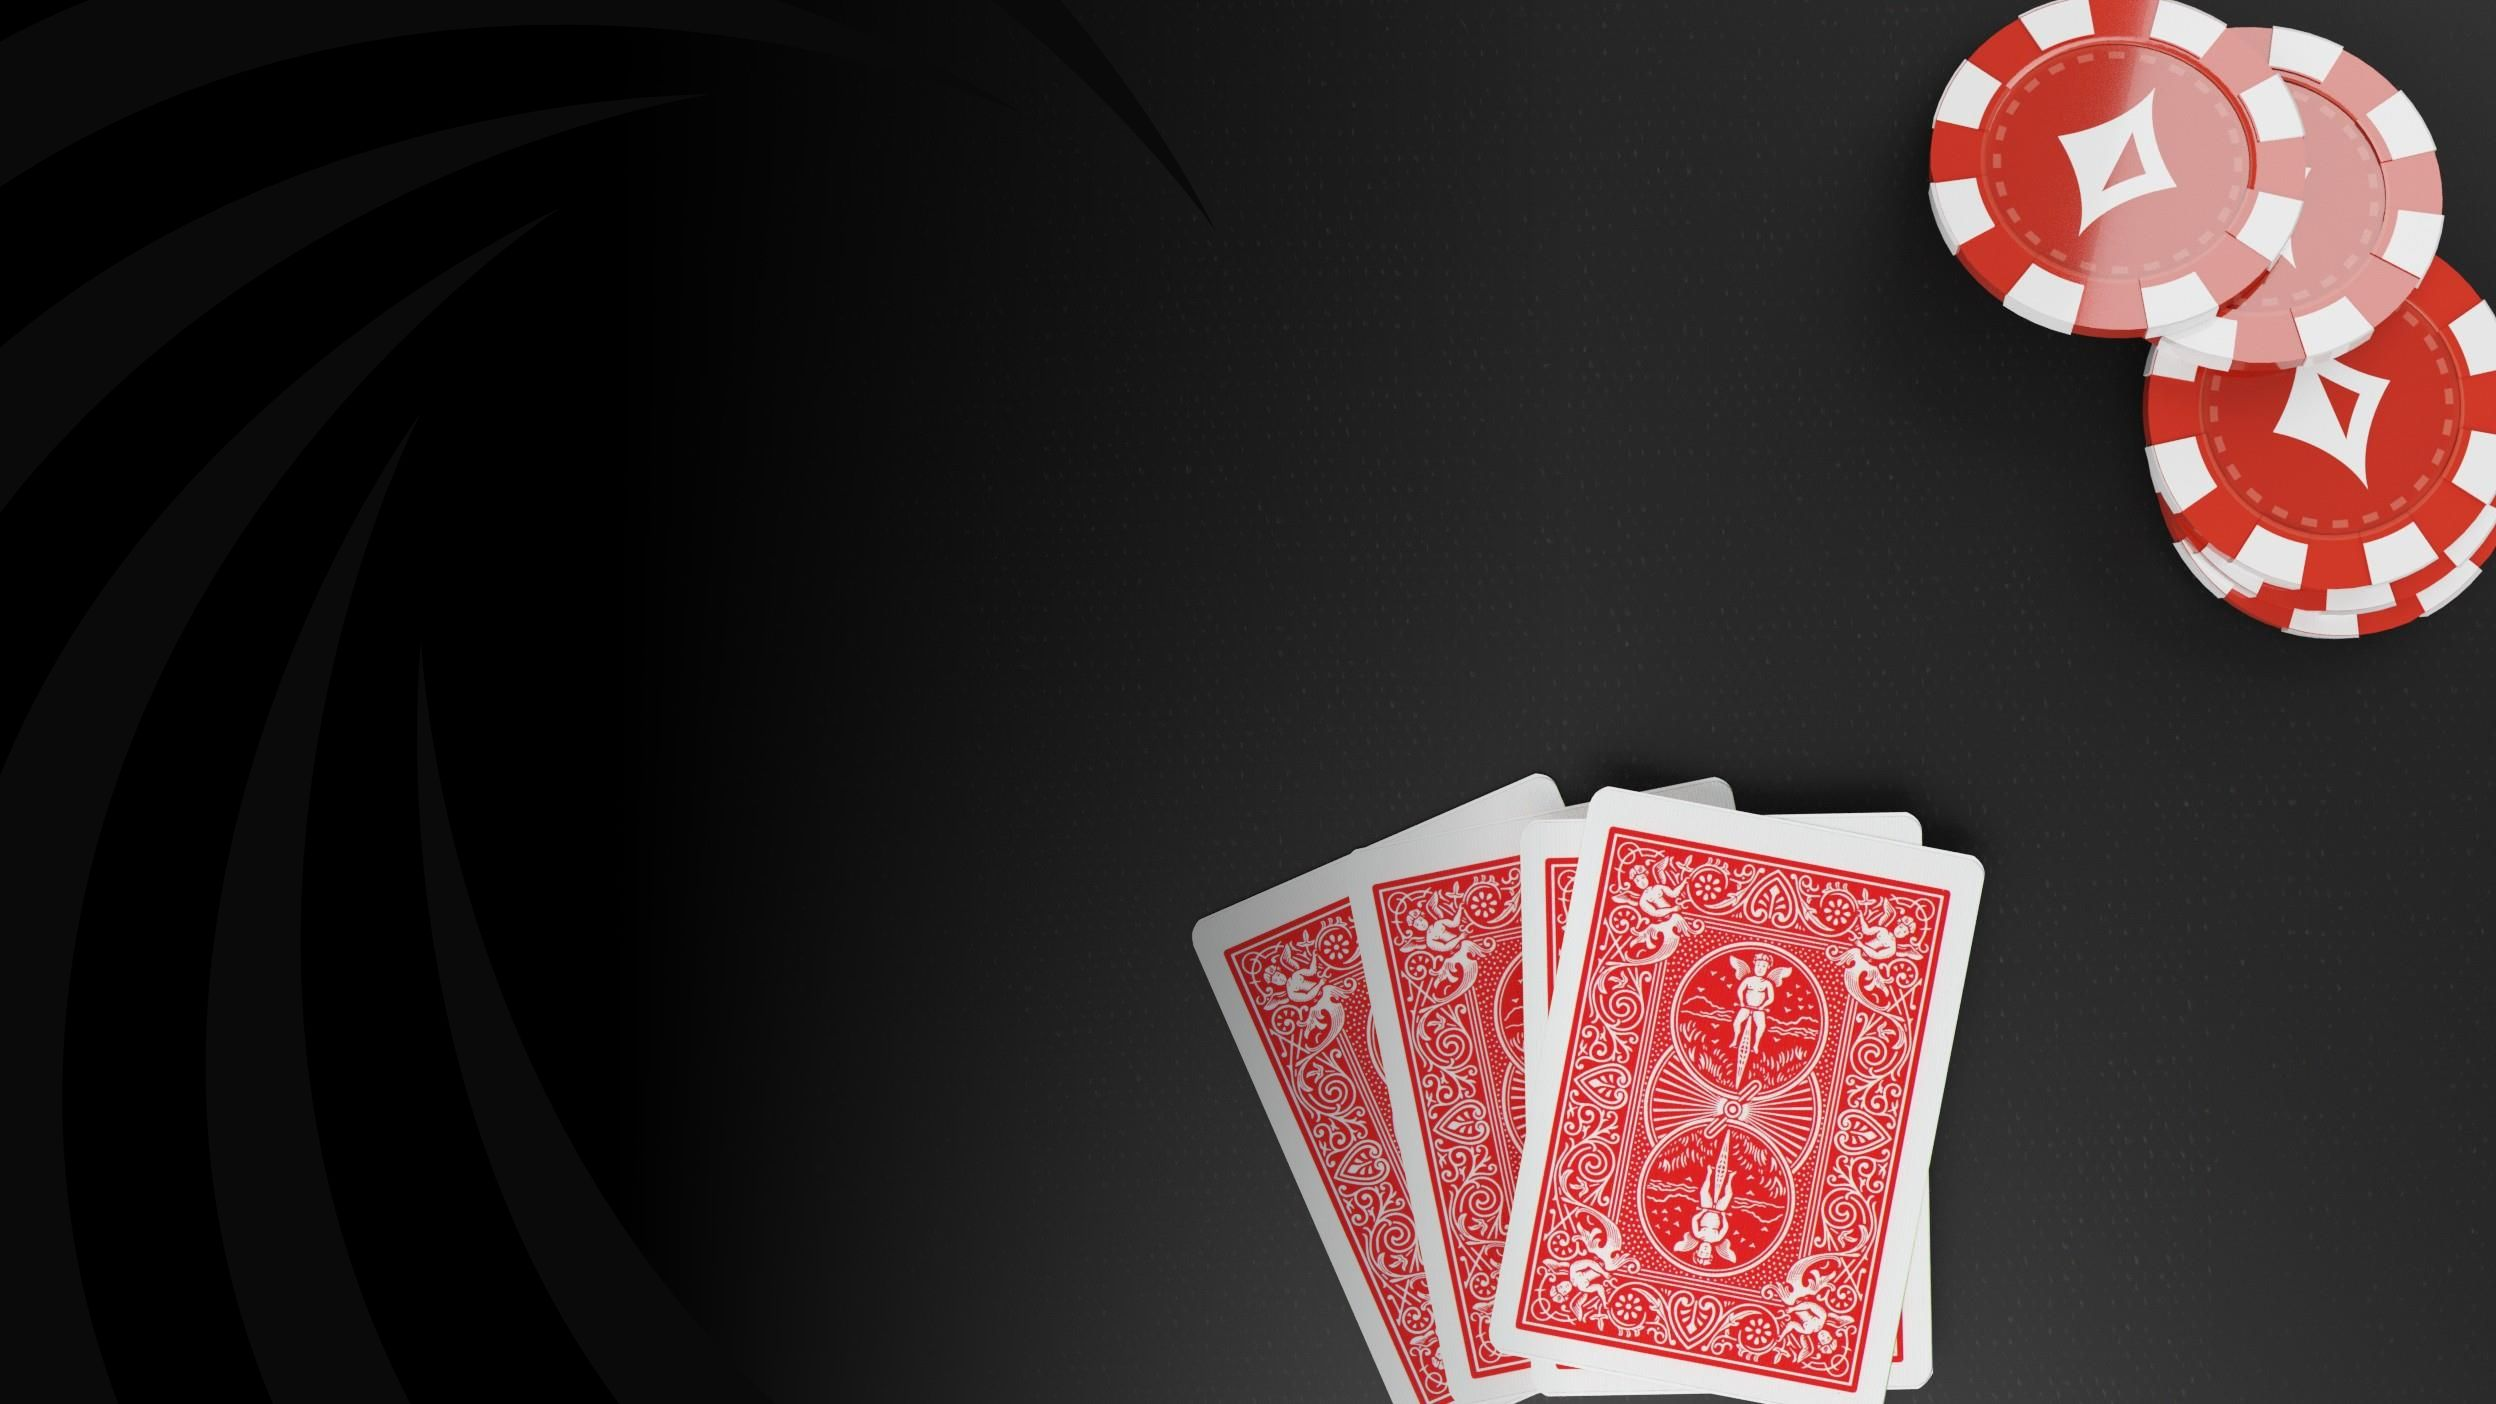
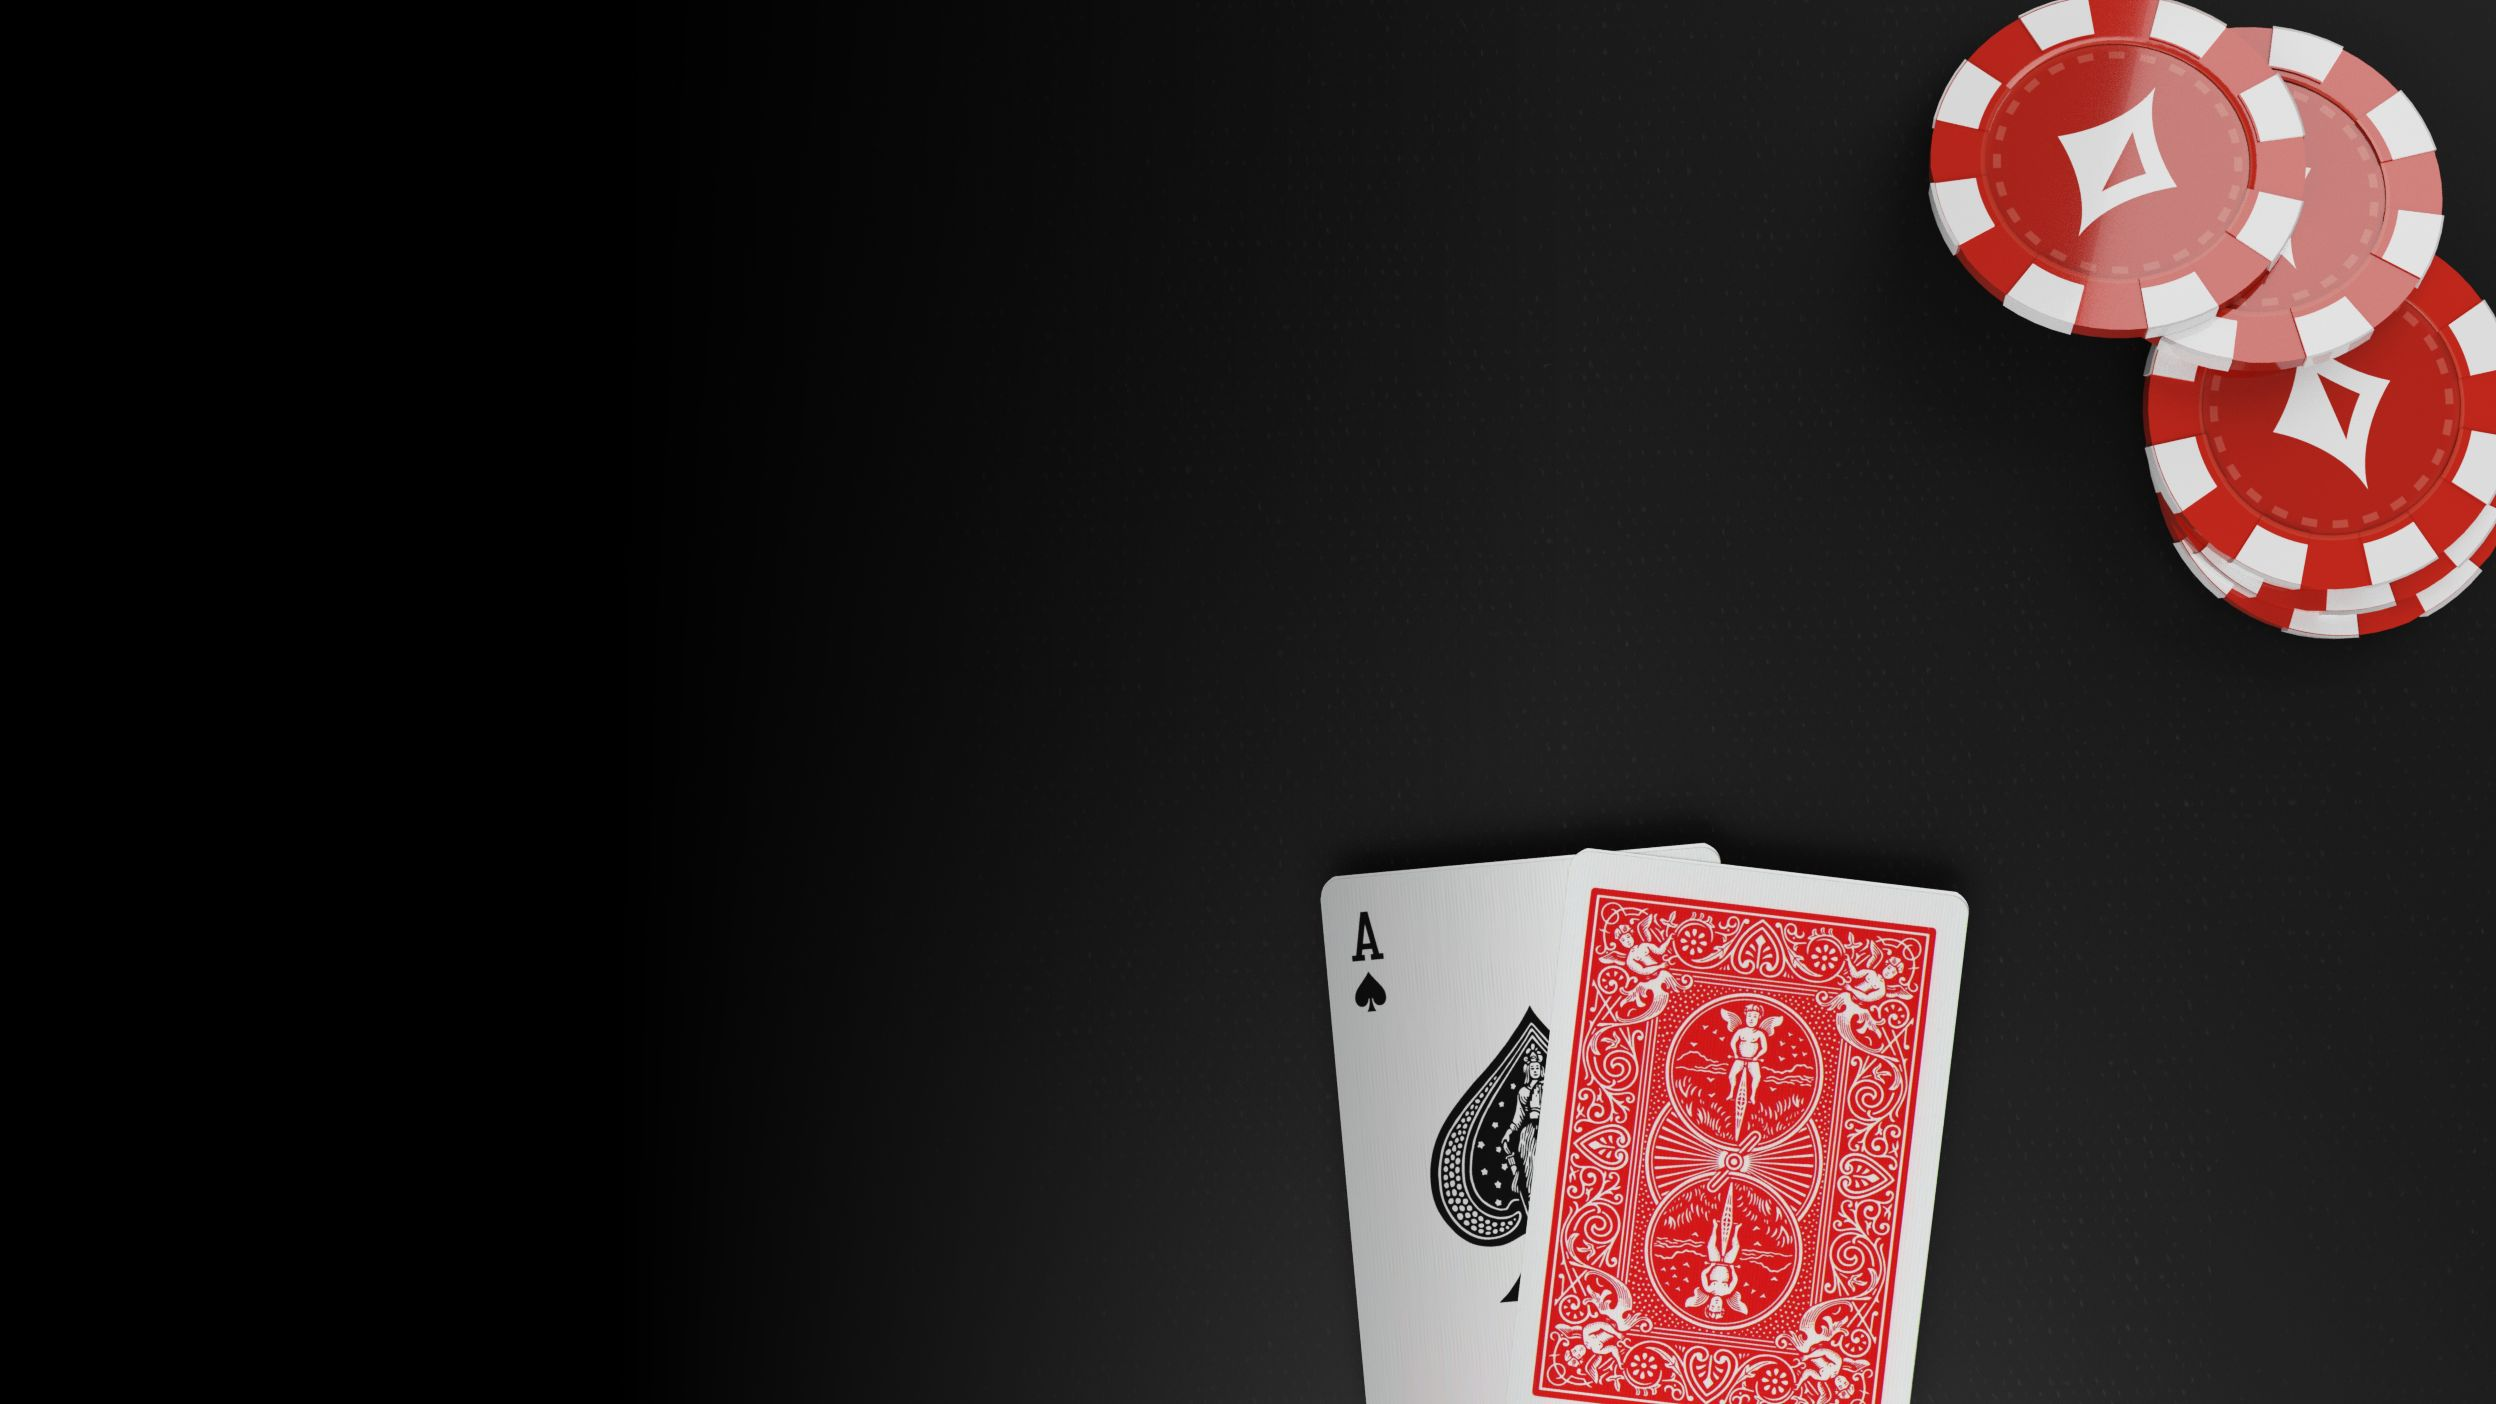
background update

Changed region(s): [[0.4688, 0.5513, 0.8125, 1.0], [0.7812, 0.0, 1.0, 0.4594]]

diff --git a/README.md b/README.md
@@ -1,3 +1,3 @@
 # pp
 
-party poker prelander
+party poker prelander - static version
